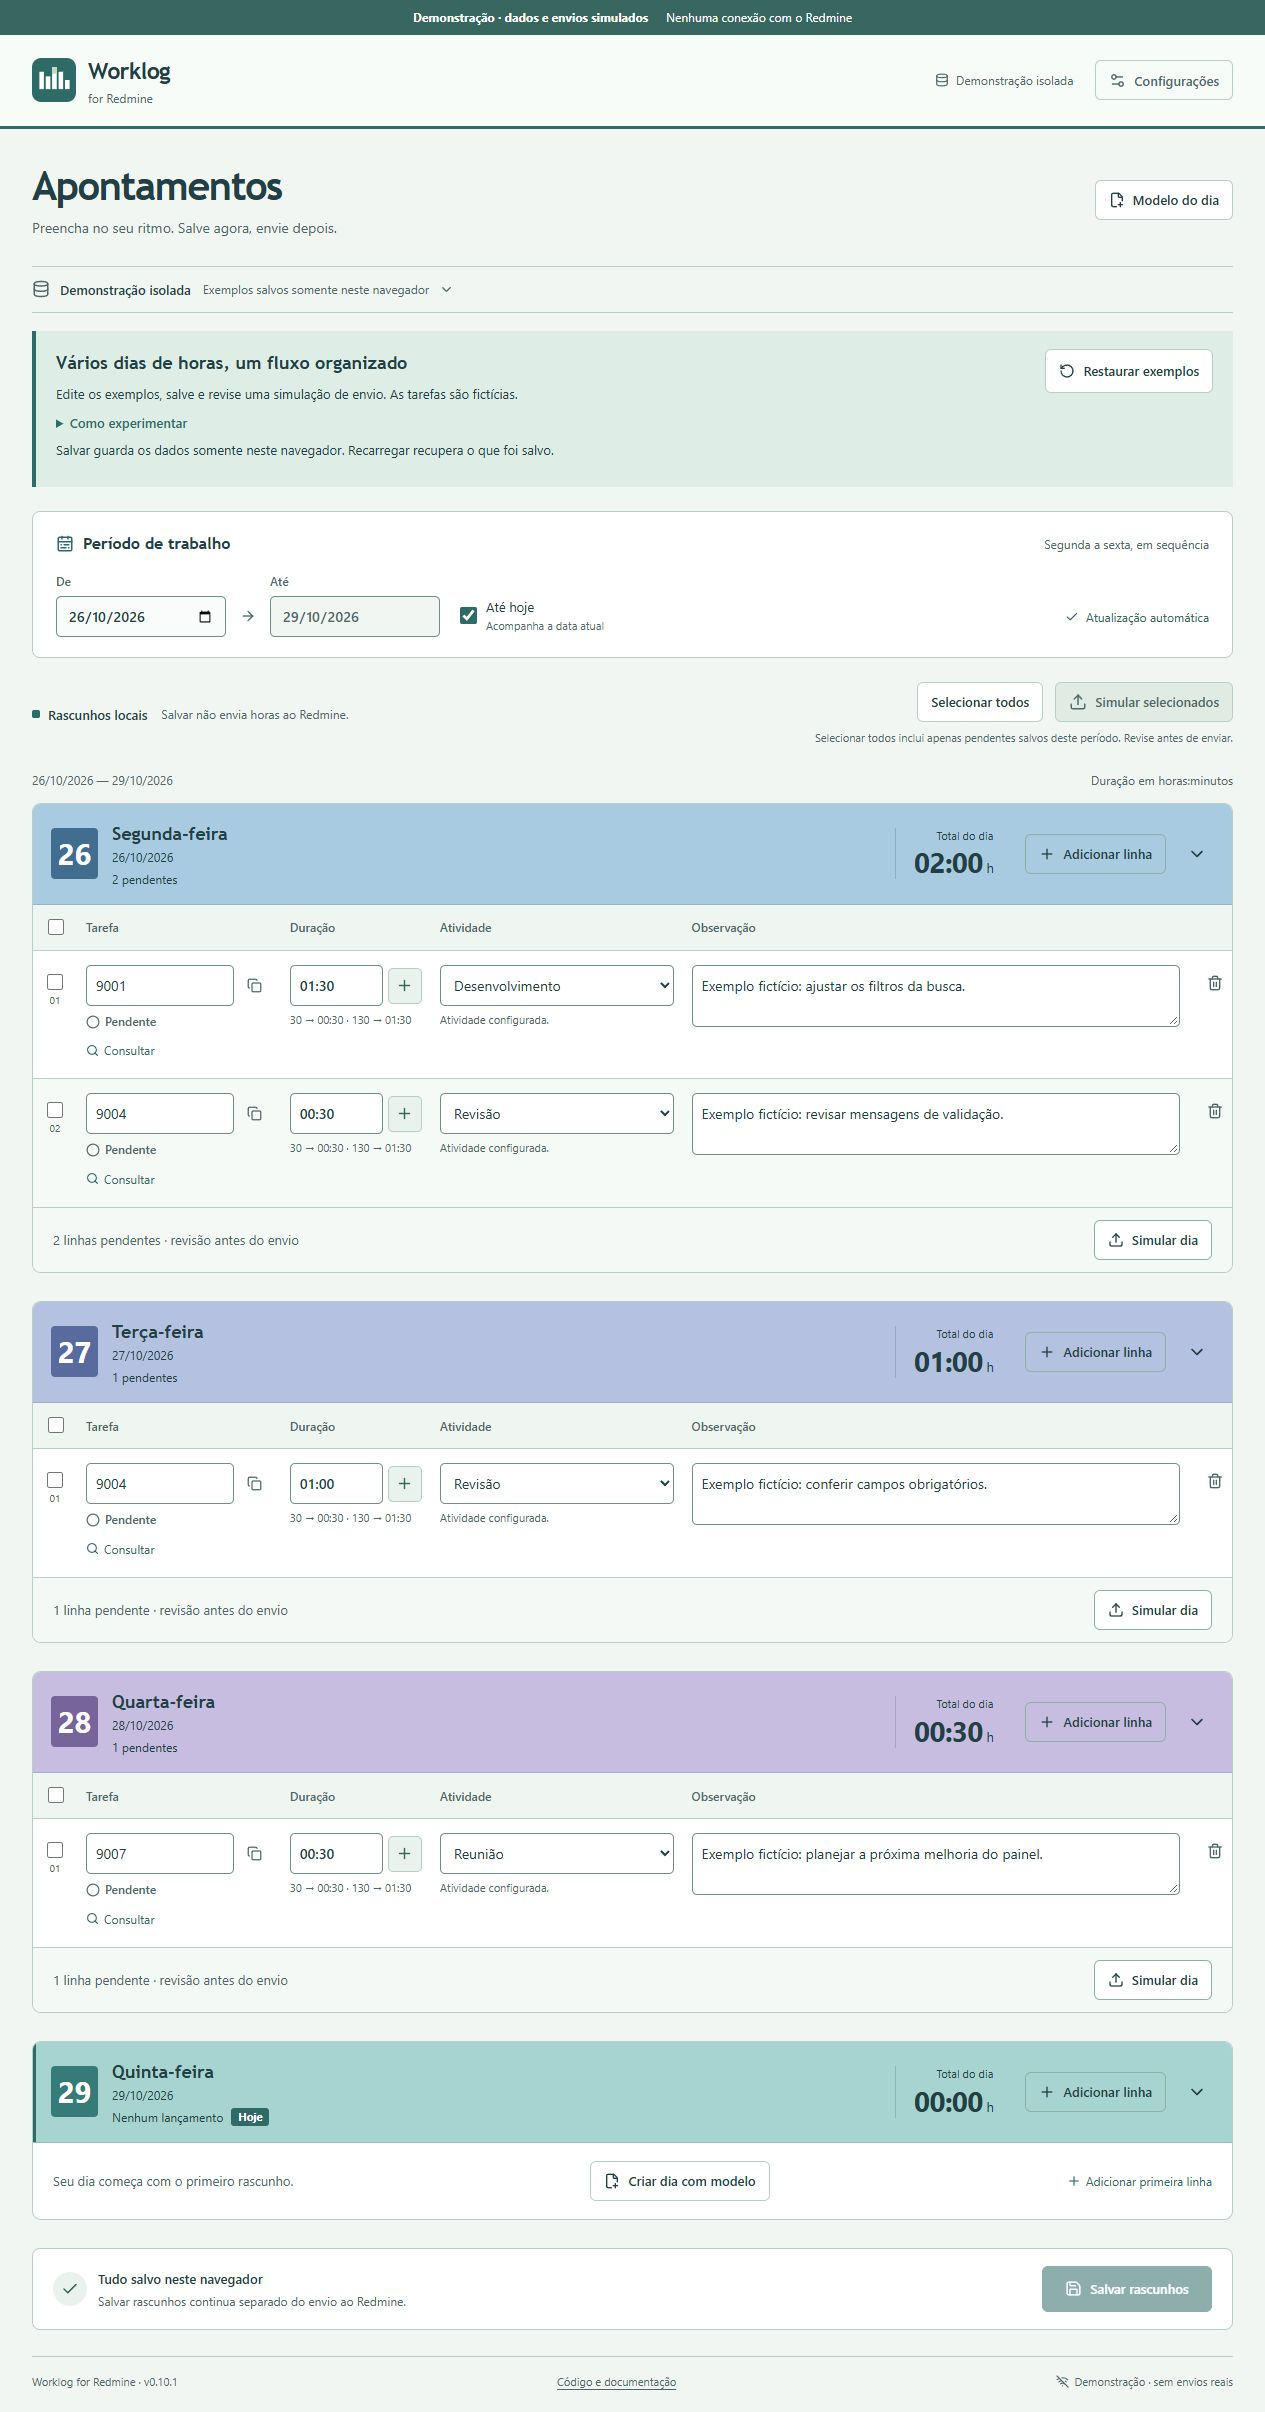
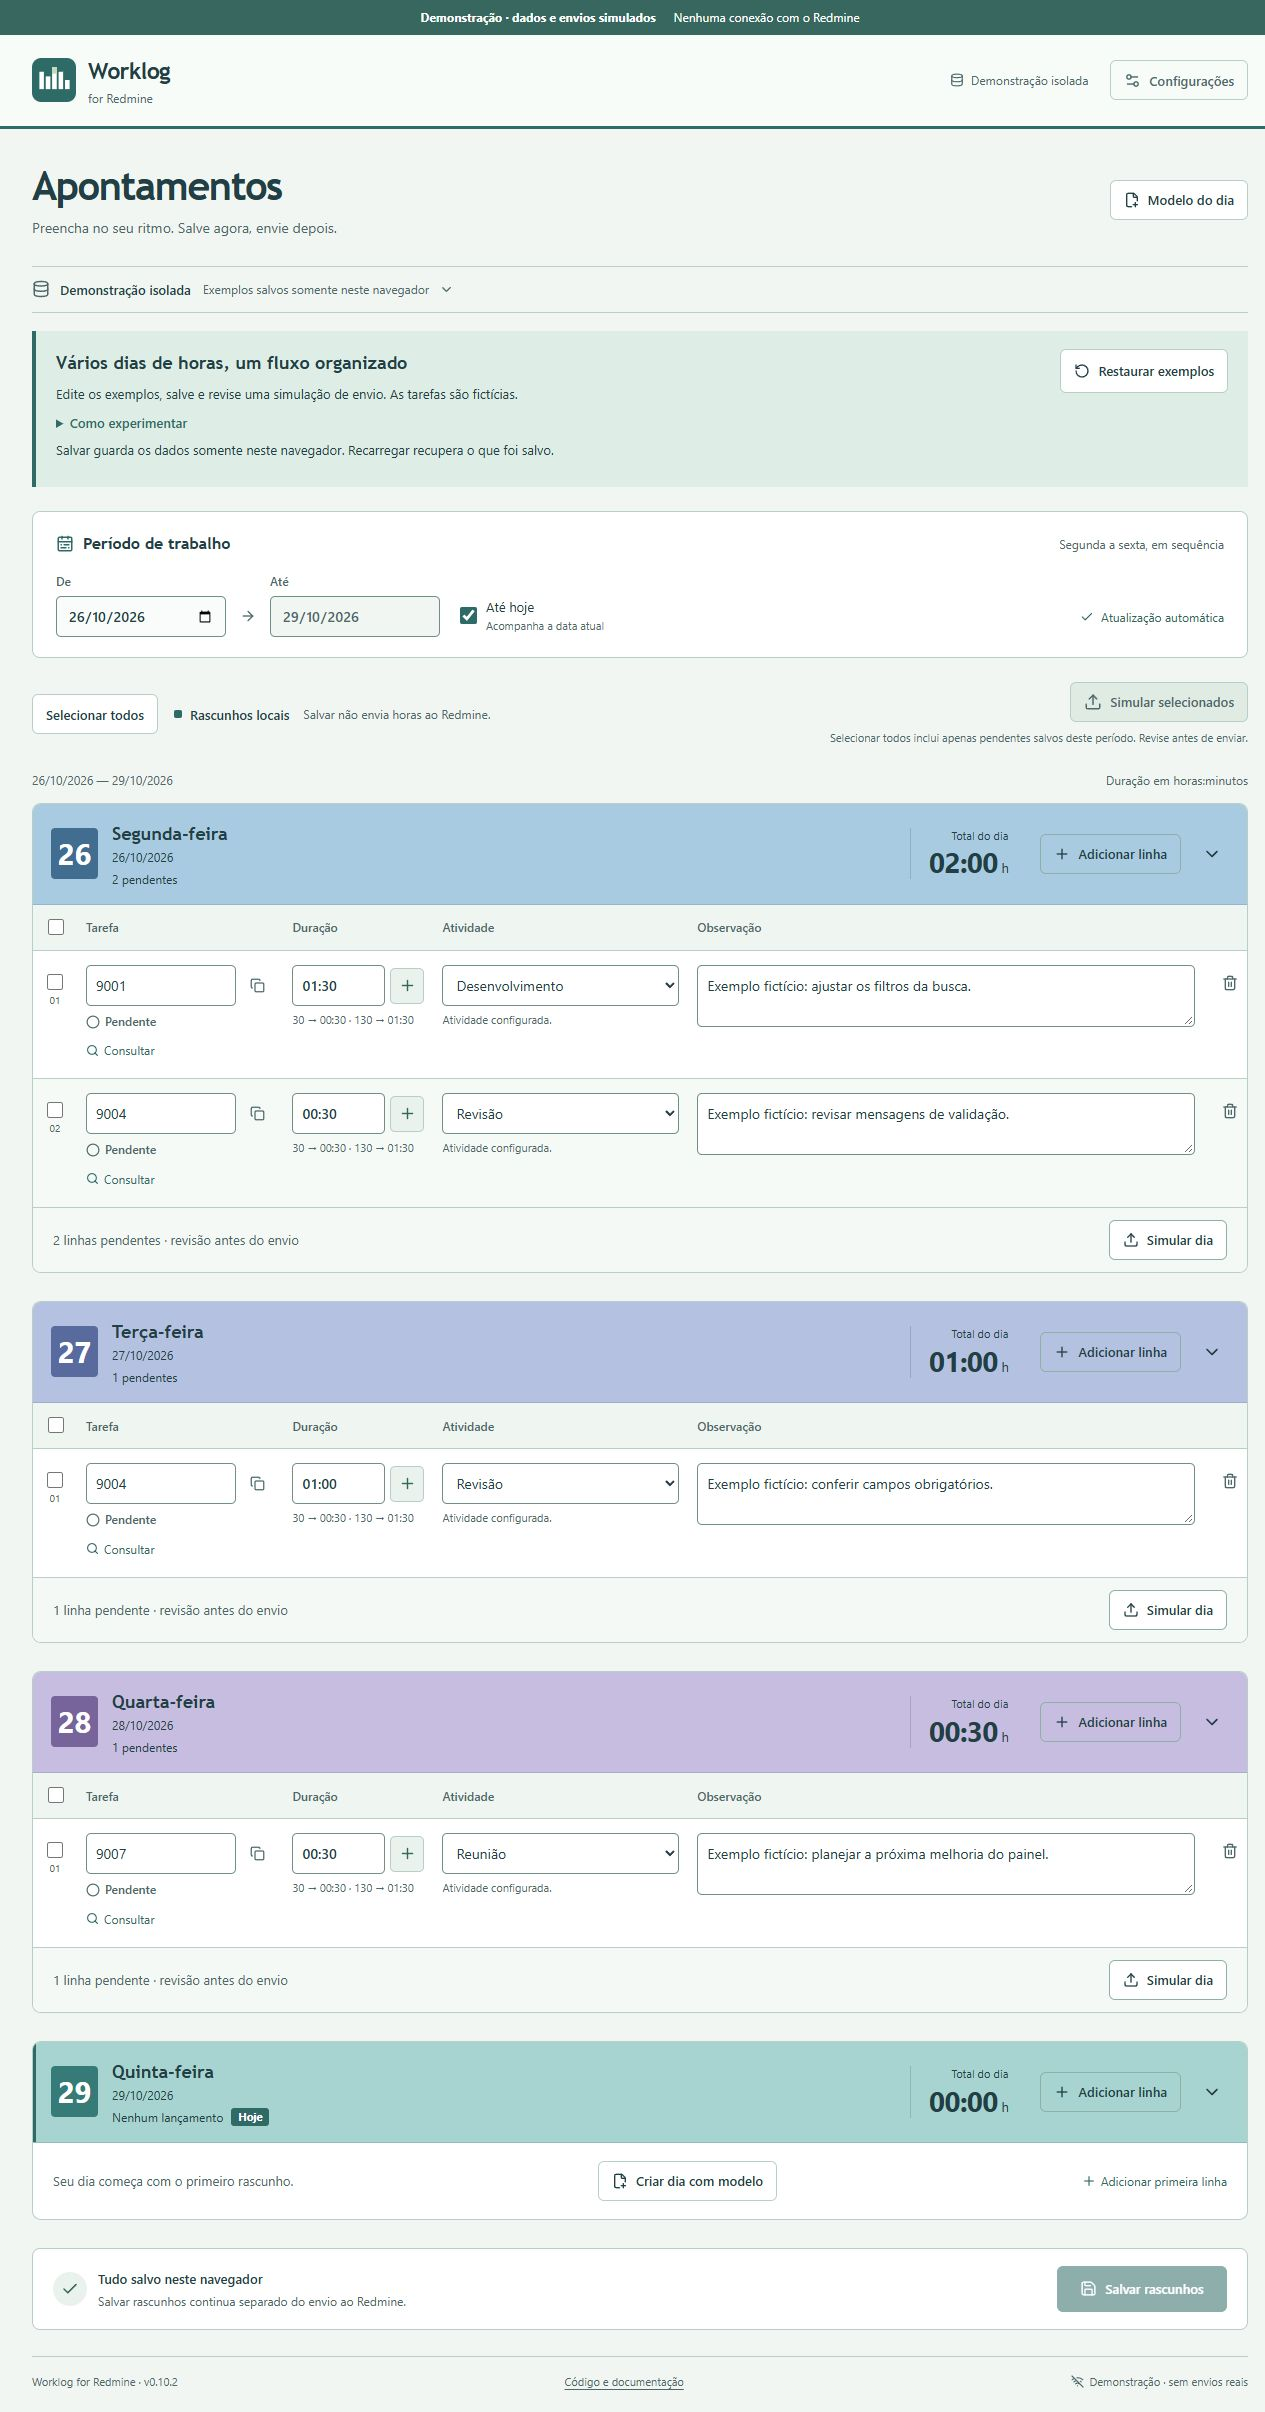
fix(ui): soften required outlines and left-align select all

diff --git a/src/client/App.tsx b/src/client/App.tsx
@@ -683,6 +683,14 @@ function WorklogApp({ resetPeriod, onDemoRestored }: {
         </section>
 
         <div className="draft-toolbar">
+          <button
+            className="button secondary"
+            disabled={loading || saving || loadFailed || !receiptsLoaded || !visiblePending.length}
+            onClick={() => setSelection(visiblePending)}
+            aria-describedby="send-status"
+          >
+            Selecionar todos
+          </button>
           <span className="draft-explanation">
             <span className="draft-dot" />
             Rascunhos locais
@@ -691,14 +699,6 @@ function WorklogApp({ resetPeriod, onDemoRestored }: {
             </span>
           </span>
           <div className="send-control">
-            <button
-              className="button secondary"
-              disabled={loading || saving || loadFailed || !receiptsLoaded || !visiblePending.length}
-              onClick={() => setSelection(visiblePending)}
-              aria-describedby="send-status"
-            >
-              Selecionar todos
-            </button>
             {!!selection.length && (
               <button className="text-button" onClick={() => setSelection([])}>
                 Limpar seleção

diff --git a/src/client/DaySection.tsx b/src/client/DaySection.tsx
@@ -262,6 +262,7 @@ export function DaySection({
                             data-entry={entry.id}
                             aria-label={`Tarefa ${label}`}
                             aria-required="true"
+                            data-missing-required={!rowLocked && !!missing.issue}
                             aria-invalid={!!fieldError("issue")}
                             aria-describedby={fieldError("issue") ? issueErrorId : undefined}
                             placeholder="Nº da tarefa"
@@ -342,6 +343,7 @@ export function DaySection({
                         <textarea
                           aria-label={`Observação ${label}`}
                           aria-required="true"
+                          data-missing-required={!rowLocked && !!missing.comment}
                           aria-invalid={!!fieldError("comment")}
                           aria-describedby={fieldError("comment") ? commentErrorId : undefined}
                           placeholder="O que foi feito?"

diff --git a/src/client/DaySection.test.tsx b/src/client/DaySection.test.tsx
@@ -28,6 +28,15 @@ async function fixture() {
 }
 
 describe("default day disclosure", () => {
+  it("marks untouched required blanks without showing validation errors or marking protected receipts", async () => {
+    const { props, render } = await fixture();
+    const day = { ...props.day, entries: [{ ...props.day.entries[0], issue: "", duration: "", activity: "", comment: "" }] };
+    const html = render({ day, submissions: {} });
+    expect(html.match(/data-missing-required="true"/g)).toHaveLength(4);
+    expect(html).not.toContain('aria-invalid="true"');
+    expect(html).not.toContain("Informe a observação.");
+    expect(render({ day })).not.toContain('data-missing-required="true"');
+  });
   it("keeps the send action next to pending tasks and disables it for unsaved edits", async () => {
     const { render } = await fixture();
     const html = render({ submissions: {} });

diff --git a/src/client/DurationField.test.tsx b/src/client/DurationField.test.tsx
@@ -7,6 +7,10 @@ const render = (changes: Partial<Parameters<typeof DurationField>[0]> = {}) => r
 );
 
 describe("quick duration addition controls", () => {
+  it("hints at an untouched required blank but considers zero minutes filled", () => {
+    expect(render({ value: "", required: true })).toContain('data-missing-required="true"');
+    expect(render({ value: "0", required: true })).not.toContain('data-missing-required="true"');
+  });
   it("places the duration before its addition button in visual and keyboard order", () => {
     const html = render();
     expect(html.indexOf('<input')).toBeLessThan(html.indexOf('<button'));

diff --git a/src/client/DurationField.tsx b/src/client/DurationField.tsx
@@ -50,6 +50,7 @@ export function DurationField({ value, label, disabled, locked, onChange, requir
       <div className="duration-field">
         <input ref={input} className="duration-input" aria-label={`Duração ${label}`}
           aria-invalid={!!fieldError} aria-required={required || undefined}
+          data-missing-required={required && !locked && !value.trim()}
           aria-describedby={fieldError || (!locked && !adding) ? hintId : undefined}
           placeholder="30 ou 1:30" inputMode="numeric" value={value}
           disabled={disabled || locked || adding}

diff --git a/src/client/styles.css b/src/client/styles.css
@@ -421,6 +421,7 @@ h1 {
   align-items: center;
   gap: 8px 12px;
   max-width: 650px;
+  margin-left: auto;
 }
 .send-control > span {
   flex-basis: 100%;
@@ -941,6 +942,9 @@ td select {
 input[aria-invalid="true"], select[aria-invalid="true"], textarea[aria-invalid="true"] {
   border-color: var(--danger);
   background: var(--danger-wash);
+}
+[data-missing-required="true"]:not([aria-invalid="true"]) {
+  border-color: #bd8c95;
 }
 .copy-feedback {
   font-size: 12px;

diff --git a/src/client/ActivitySelect.tsx b/src/client/ActivitySelect.tsx
@@ -42,6 +42,7 @@ export function ActivitySelect({
         aria-describedby={hintId}
         aria-invalid={unmatched || !!error}
         aria-required={required || undefined}
+        data-missing-required={required && !reviewedId && !value.trim()}
         onBlur={onBlur}
         value={reviewedId ? value : (selected?.name ?? value)}
         disabled={disabled || !!reviewedId || !activities.length}

diff --git a/docs/interface.md b/docs/interface.md
@@ -34,9 +34,9 @@ O **+** verde ao lado da duração abre **Tempo a somar**, com prévia do total.
 
 ## Seleção e retorno do envio
 
-O **+** de soma fica à direita do campo de duração, também na ordem de navegação por teclado. Campos obrigatórios do dia (tarefa, duração, atividade e observação) exibem borda/fundo vermelho suave, mensagem e `aria-invalid` ao perder o foco vazios; corrigir limpa o aviso imediatamente. Uma linha nova começa neutra. Revisar o dia também revela campos ausentes. `aria-required` informa o requisito sem validação nativa que impeça salvar rascunhos incompletos; a validação definitiva permanece na revisão do envio.
+O **+** de soma fica à direita do campo de duração, também na ordem de navegação por teclado. Campos obrigatórios do dia (tarefa, duração, atividade e observação) exibem borda/fundo vermelho suave, mensagem e `aria-invalid` ao perder o foco vazios; corrigir limpa o aviso imediatamente. Campos obrigatórios vazios já mostram uma borda discreta de 1 px em vermelho suave (`#BD8C95`), sem mudar o fundo antes da interação; preencher remove a indicação. Revisar o dia também revela campos ausentes. `aria-required` informa o requisito sem validação nativa que impeça salvar rascunhos incompletos; a validação definitiva permanece na revisão do envio.
 
-**Selecionar todos** reúne apenas pendentes salvos do período visível; salvar e enviar continuam separados. O botão de envio de cada dia fica no rodapé das suas tarefas, acompanhado da quantidade pendente e da indicação de revisão. Datas, totais, adicionar linha e recolher ficam no cabeçalho. Dias integralmente apropriados não exibem uma ação de reenvio.
+**Selecionar todos**, alinhado à margem esquerda dos dias, reúne apenas pendentes salvos do período visível; salvar e enviar continuam separados. O botão de envio de cada dia fica no rodapé das suas tarefas, acompanhado da quantidade pendente e da indicação de revisão. Datas, totais, adicionar linha e recolher ficam no cabeçalho. Dias integralmente apropriados não exibem uma ação de reenvio.
 
 Seletores de atividades dos dias/modelo e o catálogo em Configurações apresentam os nomes em ordem alfabética brasileira, sem distinguir maiúsculas ou acentos para ordenar. A apresentação não altera IDs nem substitui valores antigos; o catálogo não muda de posição a cada tecla durante a edição.
 

diff --git a/docs/local-usage.md b/docs/local-usage.md
@@ -22,6 +22,8 @@ A visualização mostra somente segunda a sexta dentro do intervalo. Sábados/do
 
 Use `30`/`030` para 30 minutos, `130` para 1h30 ou `01:30`. `90`, `160`, sinais, decimais e segundos são inválidos; não há arredondamento. Linhas incompletas podem ser salvas como rascunho. Total diário inclui todos os rascunhos; uma duração malformada exige correção/limpeza antes de salvar.
 
+Campos obrigatórios ainda vazios já têm uma borda discreta de 1 px em vermelho suave, sem mudar o fundo antes da interação. Preencher remove essa indicação. **Selecionar todos** fica alinhado à margem esquerda dos dias e mantém a seleção apenas dos pendentes salvos no período visível.
+
 Tarefa, duração, atividade e observação são obrigatórias para enviar. Ao sair de um desses campos vazio (inclusive só com espaços), ele recebe borda/fundo vermelho suave e uma mensagem explicativa. Preencher remove o aviso imediatamente; `00:00` conta como duração informada, sem impor um mínimo novo. **Enviar dia** também sinaliza os campos faltantes antes de abrir a revisão. Os avisos não impedem salvar rascunhos incompletos, não alteram revisões/dados e não liberam edição de recibos protegidos.
 
 Para acrescentar tempo, clique no **+** verde à direita da duração. Digite o acréscimo em **Tempo a somar**, confira **Novo total** e pressione **Enter** ou **Somar**. Por exemplo, `01:00` + `030` resulta em `01:30`. **Esc**, o × ou clicar novamente no + cancela sem alterar o valor. Uma duração vazia parte de zero; uma duração atual inválida precisa ser corrigida antes. Digitar diretamente no campo principal continua substituindo o valor. A soma altera só o rascunho: ainda é necessário salvar. Recibos protegidos não permitem somar tempo.

diff --git a/AGENTS.md b/AGENTS.md
@@ -22,7 +22,9 @@
 
 ## Catalog, days and templates
 
-- v0.10.1 places quick addition to the right of duration and flags missing issue/duration/activity/comment on blur or day review with red styling, text and ARIA. New untouched rows start neutral; corrections clear missing-field feedback. Preserve saving incomplete drafts, zero-minute semantics and protected receipts; never turn this presentation feedback into implicit submission or native form-save blocking.
+- v0.10.2 gives untouched missing required fields a subtle 1 px red border on white, cleared when filled; stronger error styling/messages remain interaction-driven. Protected receipts get no missing-field hint, and zero duration counts as filled. Select all aligns with the left edge of the day cards; selection eligibility stays unchanged.
+
+- v0.10.1 places quick addition to the right of duration and flags missing issue/duration/activity/comment on blur or day review with red styling, text and ARIA. Corrections clear missing-field feedback. Preserve saving incomplete drafts, zero-minute semantics and protected receipts; never turn this presentation feedback into implicit submission or native form-save blocking.
 
 - v0.10.0 adds header click disclosure and a green quick-add duration action. Header controls must not also toggle disclosure; keep the arrow keyboard-accessible and rows mounted. Quick addition previews minutes using the compact-input parser, applies only on Enter/Somar, cancels without changing the base, and respects protected receipts. Direct duration edits still replace; save remains explicit.
 

diff --git a/CHANGELOG.md b/CHANGELOG.md
@@ -12,6 +12,12 @@ Histórico das versões. Criado em 23/10/2026 com a base anterior ao modelo regi
 - Antes de cada commit/merge, ler este arquivo e avaliar uma versão proporcional à entrega. Em 25/10/2026, Cristian delegou ao agente a decisão de versão neste projeto e pediu push automático dos commits coesos, sem nova confirmação rotineira. Não incrementar a versão por commit da mesma entrega. Publicação e dados reais continuam sujeitos ao escopo autorizado.
 - Nunca incluir credenciais, planilhas privadas, bancos, backups ou dados reais nos registros, tags e arquivos distribuídos.
 
+## [0.10.2] — 2026-10-29
+
+- Obrigatórios vazios recebem uma borda discreta de 1 px em vermelho suave (`#BD8C95`) antes de qualquer interação, mantendo o fundo branco. Preencher remove a indicação; mensagens/destaque de erro após interação, duração zero, salvamento de rascunhos e recibos protegidos preservados.
+- **Selecionar todos** movido para a margem esquerda dos dias, em desktop e celular, sem alterar as regras de seleção. Documentação atual e captura fictícia do README atualizadas.
+- 403 testes/32 arquivos, builds local/demo/Pages e auditorias aprovados. Conferência de bordas nos quatro campos intocados, remoção ao preencher, seleção e alinhamento nas duas larguras; 375 px sem transbordamento da página ou erros de console. Sem acesso ao banco de uso ou envio real.
+
 ## [0.10.1] — 2026-10-29
 
 ### Feedback dos campos obrigatórios
